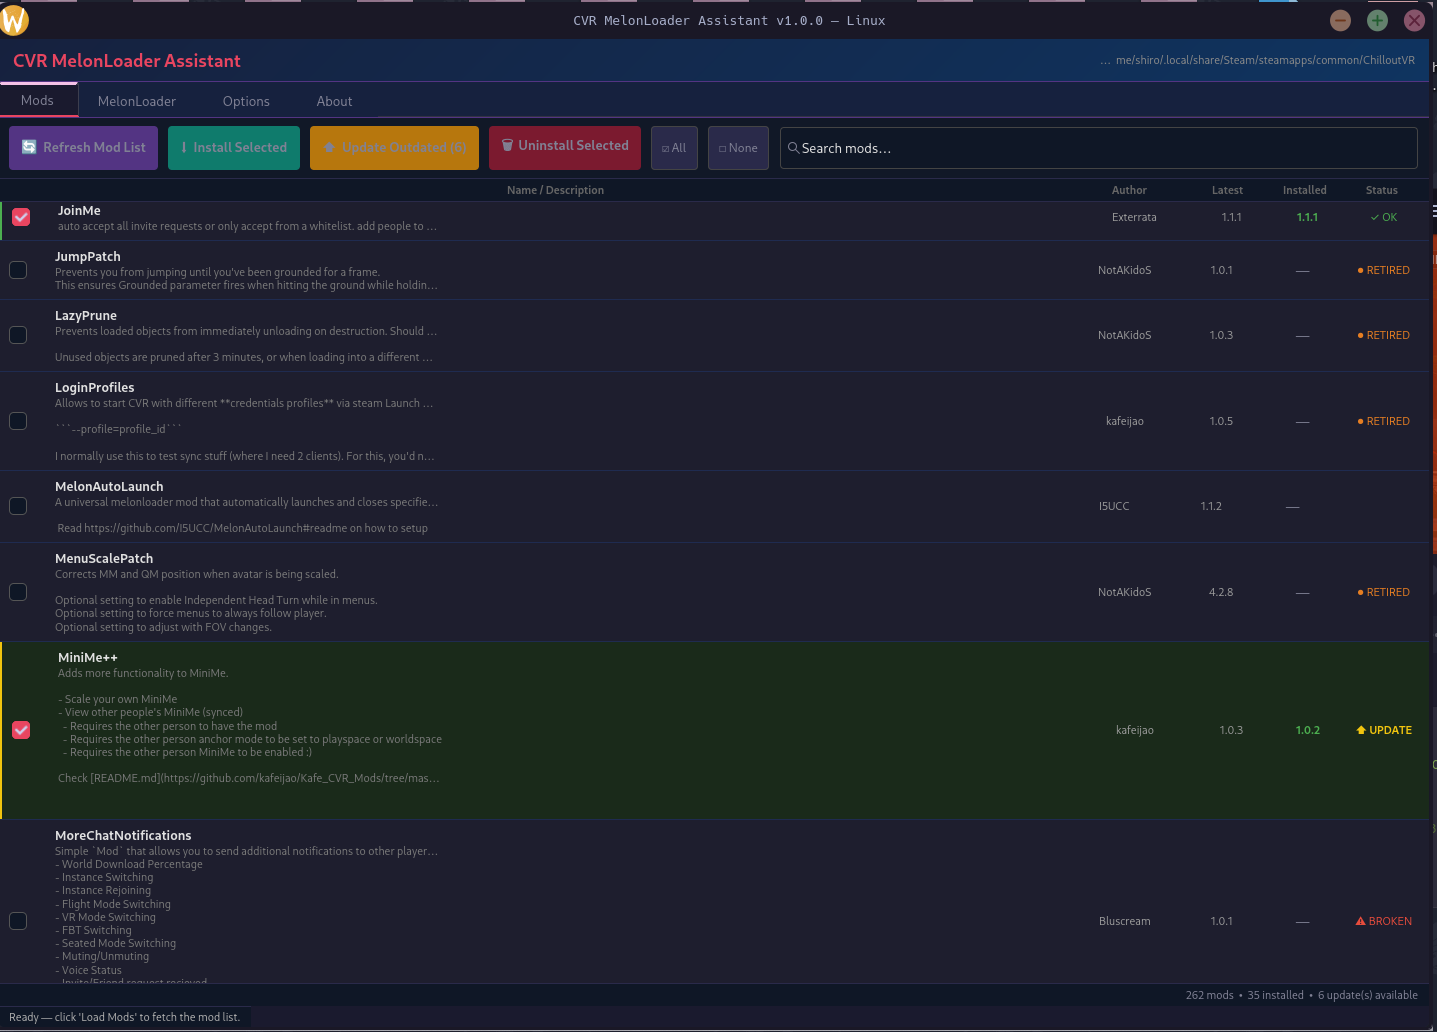
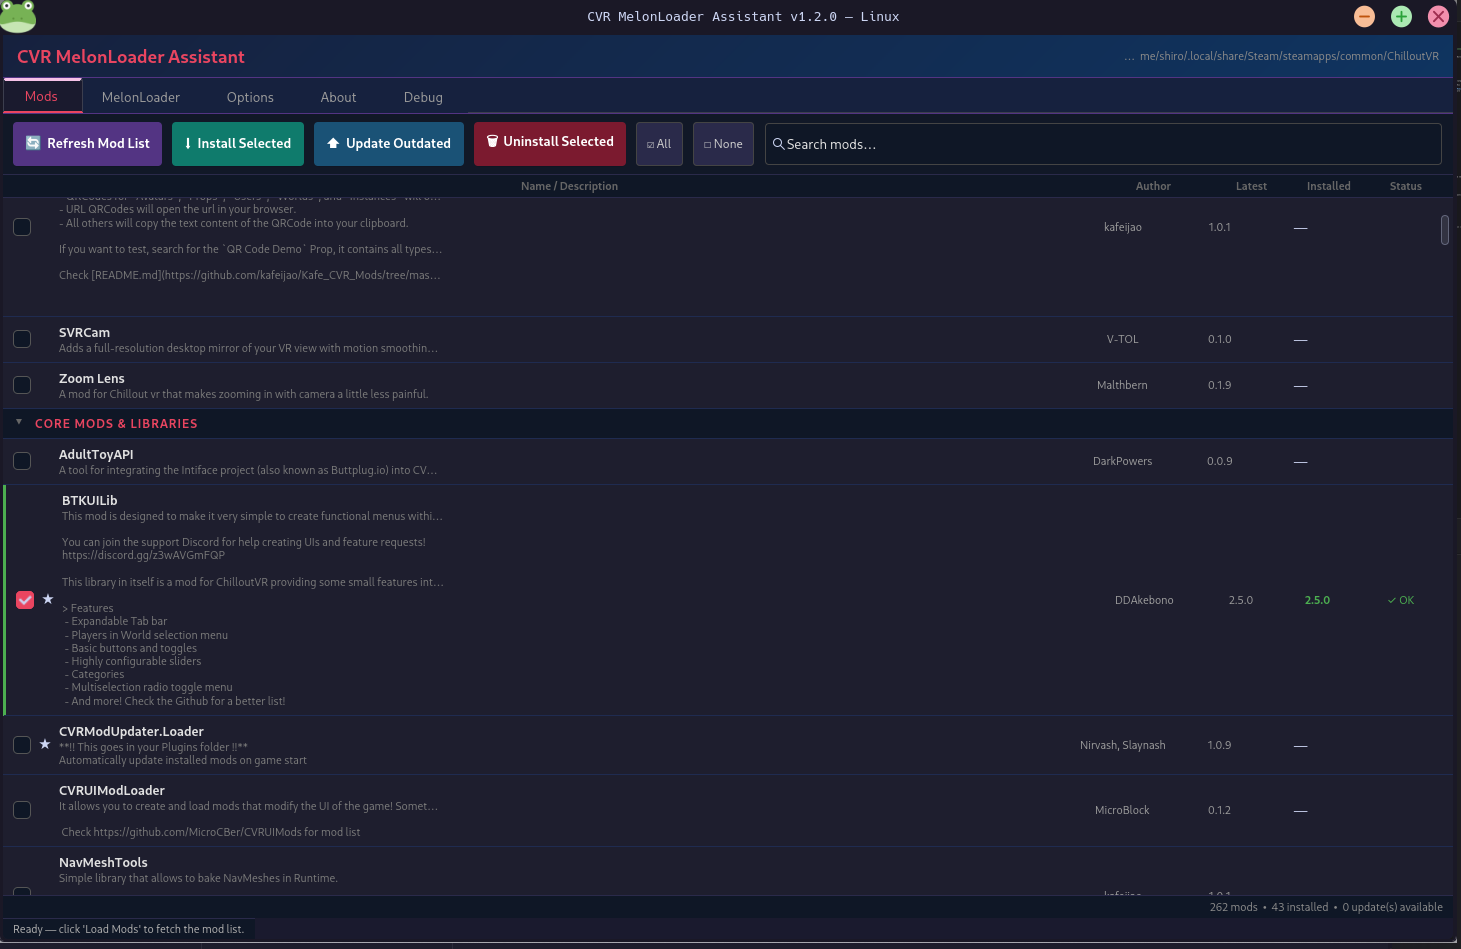
added updated screenshots

diff --git a/README.md b/README.md
@@ -10,6 +10,9 @@ Ported and maintained by **[Kneesox](https://kneesox.moe)**.
 
 ![CVR MelonLoader Assistant screenshot](screenshot.png)
 
+![CVR MelonLoader Assistant screenshot 2](screenshot.png)
+
+
 ## Features
 
 - 🔍 Auto-detects ChilloutVR via Steam on Linux (`~/.local/share/Steam`, Steam Deck, Flatpak)
